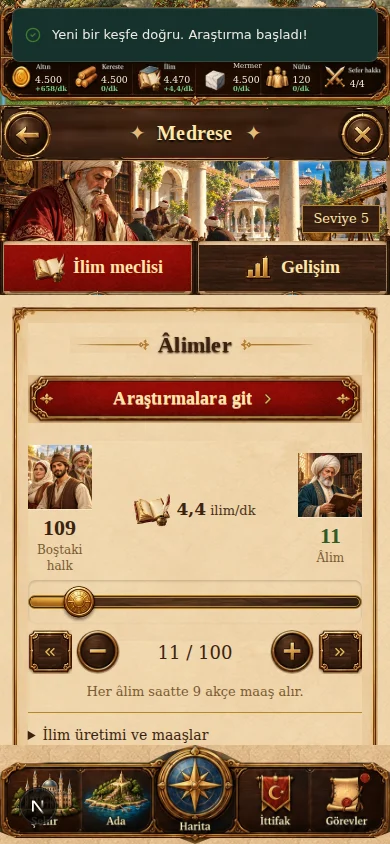
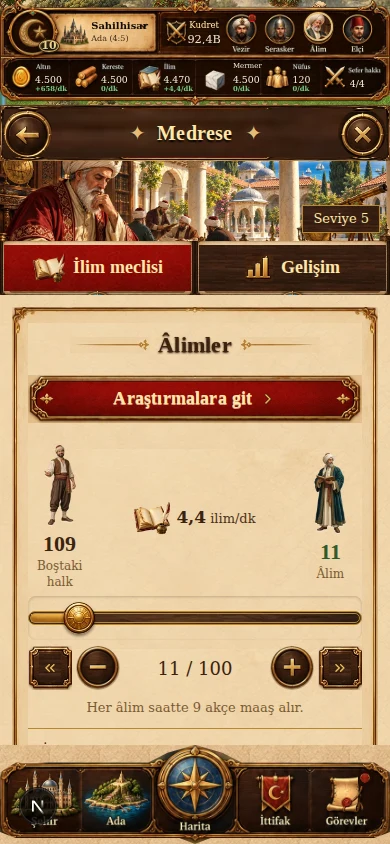
Use full-body painted citizen and scholar role figures

Changed region(s): [[0.0615, 0.5237, 0.9538, 0.8934], [0.0308, 0.0, 0.9846, 0.0924], [0.3385, 0.5853, 0.6462, 0.6469]]

diff --git a/payitaht/lib/game/changelog.ts b/payitaht/lib/game/changelog.ts
@@ -5,6 +5,7 @@
 export type Release = { version: string; date: string; title: string; notes: string[] }
 
 export const CHANGELOG: Release[] = [
+  { version: '0.71.1', date: '9 Ekim 2026', title: 'Tam boy halk ve âlim figürleri', notes: ['Boştaki halk ve âlim alanları ortak, tam boy boyalı insan figürlerine geçirildi. Portre çerçevesi kaldırıldı; bütün vücut ve ayaklar görünür.', 'İş gücü, araştırma ve öneri alanları aynı figürleri kullanır. Atama ve araştırma kuralları değişmedi.'] },
   { version: '0.71.0', date: '9 Ekim 2026', title: 'Ortak halk ve âlim, anlaşılır Medrese', notes: ['Halk ve âlim portreleri bütün ilgili ekranlarda ortaklaştırıldı; ilim ve süre simgeleri yenilendi.', 'Kristal deneyleri harcama ve gerçek kazanımı gösterir; âlim şehir durumuna göre araştırma önerir.', 'Yapı önizlemeleri ve üst bilgi düğmeleri kaldırıldı; yükseltme başlığı ortalandı, Medrese başlığı ve onay düğmeleri düzenlendi.'] },
   { version: '0.70.0', date: '8 Ekim 2026', title: 'Medrese ve ilim defteri', notes: ['Onaylı ortak Osmanlı arayüz standardı Medrese, beş araştırma dalı, deneyler ve gelecek araştırmalarına uygulandı.', 'Yeni boyalı kütüphane ve âlim portreleri; aynı işlemeli çerçeve, kırmızı eylem ve madalyonlu âlim atama barı.', 'Yükseltme Gelişim’de ilk sırada; üretim/maaş defteri ve yapı araçları normal akışta. Araştırma şartları, maliyetler ve süreler korunur.'] },
   { version: '0.69.0', date: '8 Ekim 2026', title: 'Kışla referansının son ayrıntıları', notes: ['16 birliğin tamamında aynı yakın plan resim ve altın köşeli çerçeve; bilgi ve kuyrukta eski figüre dönüş yok.', 'Referanstan boyalı +/−, Maks. çerçevesi, sürgü madalyonu, Gelişim simgesi ve süslü bölüm başlıkları.', 'Üretim kuyruğu portre, kalan süre ve ahşap/altın ilerleme çubuğuyla düzenlendi; yükseltme Gelişim başında kalır.'] },

diff --git a/payitaht/app/styles/50-academy-register.css b/payitaht/app/styles/50-academy-register.css
@@ -123,7 +123,7 @@
 .game-shell.has-page .bp:is(.bp-of-medrese,.bp-research) .gbtn { min-width: 120px; }
 
 /* 0.71: one citizen/scholar portrait, clear experimentation and aligned actions. */
-.game-shell img.person-portrait { object-fit: cover; border: 0 solid transparent; border-image: url('../../public/images/game/ui/barracks/unit-frame.webp') 40 / 5px / 0 stretch; border-radius: 0; flex-shrink: 0; }
+.game-shell img.person-figure { object-fit: contain; border: 0; flex-shrink: 0; }
 .game-shell .bp-dock-label { display: block; width: 100%; text-align: center; }
 .game-shell .building-description,
 .game-shell .building-operations { margin: 12px 0; border-block: 1px solid var(--c-gold-deep); }
@@ -135,7 +135,7 @@
 .game-shell.has-page .bp-of-medrese > .bp-bar h1::before,
 .game-shell.has-page .bp-of-medrese > .bp-bar h1::after { content: ''; width: 30px; height: 12px; background: var(--academy-ornament) center / 100% 100% no-repeat; }
 .game-shell.has-page .bp-of-medrese > .bp-bar h1::after { transform: scaleX(-1); }
-.game-shell.has-page .bp-of-medrese .workforce-side .person-portrait { width: 64px; height: 64px; margin-bottom: 4px; }
+.game-shell.has-page .bp-of-medrese .workforce-side .person-figure { width: 60px; height: 80px; margin-bottom: 4px; }
 .game-shell.has-page .bp-of-medrese .workforce-confirm { display: grid; grid-template-columns: repeat(2,minmax(0,1fr)); align-items: stretch; gap: 8px; }
 .game-shell.has-page .bp-of-medrese .workforce-confirm > .gbtn { min-width: 0; width: 100%; min-height: 52px; padding: 13px 30px; text-align: center; justify-content: center; }
 .game-shell.has-page .bp-of-medrese .workforce-confirm > .gbtn[data-variant='outline'] { filter: saturate(.4); }

diff --git a/payitaht/components/game/workforce.tsx b/payitaht/components/game/workforce.tsx
@@ -18,7 +18,7 @@ const INK = '#2e1c0e'
 const SKIN = '#e8b98a'
 /** Ayakta duran küçük figür: başlık, cübbe ve elindeki alet mesleği anlatır. */
 export function PersonArt({ kind, size = 64 }: { kind: Figure; size?: number }) {
-  if (kind === 'alim' || kind === 'halk') return <img className="person-art person-portrait" src={asset(`/images/game/ui/people/${kind === 'alim' ? 'scholar' : 'citizens'}.webp`)} alt="" width={size} height={size} />
+  if (kind === 'alim' || kind === 'halk') return <img className="person-art person-figure" src={asset(`/images/game/ui/people/${kind === 'alim' ? 'scholar-figure' : 'citizen-figure'}.webp`)} alt="" width={size} height={size * 80 / 60} />
   const look: Record<Figure, { robe: string; sash: string; hat: ReactNode; tool: ReactNode }> = {
     halk: { robe: '#4f7fa8', sash: '#e2bd78',
       hat: <path d="M23 13 l1.5 -8 h11 l1.5 8 Z" fill="#b3261e" stroke={INK} strokeWidth="1.2" />, tool: null },

diff --git a/payitaht/lib/pwa-cache.test.ts b/payitaht/lib/pwa-cache.test.ts
@@ -11,7 +11,7 @@ test('service worker Pages base path altında kaydolur', () => {
 
 test('service worker cache sürümü ve asset yenileme stratejisi güncel', () => {
   const sw = readFileSync('public/sw.js', 'utf8')
-  assert.match(sw, /payitaht-shell-v81/)
+  assert.match(sw, /payitaht-shell-v82/)
   assert.match(sw, /self\.registration\.scope/)
   assert.match(sw, /url\.pathname\.startsWith\(gameImages\)/)
   // Yalnızca JavaScript sözdizimini derle; self çağrıları çalıştırılmaz.

diff --git a/payitaht/public/sw.js b/payitaht/public/sw.js
@@ -1,7 +1,9 @@
-const CACHE = 'payitaht-shell-v81'
+const CACHE = 'payitaht-shell-v82'
 const BASE = new URL(self.registration.scope).pathname.replace(/\/$/, '')
 const p = path => `${BASE}${path.startsWith('/') ? path : `/${path}`}`
 const ASSETS = [
+  p('/images/game/ui/people/citizen-figure.webp'),
+  p('/images/game/ui/people/scholar-figure.webp'),
   p('/images/game/ui/people/citizens.webp'),
   p('/images/game/ui/people/scholar.webp'),
   p('/images/game/icons/res-ilim-v2.webp'),

diff --git a/payitaht/docs/MASTER-UI-STANDARD.md b/payitaht/docs/MASTER-UI-STANDARD.md
@@ -11,7 +11,7 @@ Adem, 8 Ekim 2026: “bu tasarımı beynine işle tasarım standardımız oturdu
 - Bölüm başlıkları iki yanda simetrik altın süs. Sekmelerde konuya uygun Osmanlı/boyalı simge; Gelişim'de referansın pirinç sütun ikonu.
 - Önce oyun eylemi, sonra destek bilgisi. Yükseltme Gelişim'in ilk bloğudur. Ana eylemi sabit büyük dekorasyonla sıkıştırma. Uzun içerik dikey akar; yatay hareket sadece açıkça belirtilen adet barı veya dal sekmesidir.
 - Sahne aynı Osmanlı–Ege ressamının ışık/malzeme dilinde; yeni bina için aynı sahneyi kopyalamak yerine yeni yazısız resim üret. 9 Ekim düzeltmesi: bina sayfalarındaki yapı görünümü ve seviye önizleme galerileri kaldırılır. Yön/taşıma/yıkım eylemleri Gelişim’de ayrı açılır alanda erişilebilir kalır.
-- Halk/âlim için her yerde ortak `ui/people/citizens.webp` ve `scholar.webp`; sayfaya özel farklı halk veya âlim kullanma. Üst bina bilgi düğmesi kaldırılır, açıklama Gelişim’de okunur. Yükseltme başlığı ortalı; Onayla/Geri al eşit genişlik ve yükseklikte, çerçeve işaretleri metne değmez.
+- Halk/âlim rol alanlarında ortak `ui/people/citizen-figure.webp` ve `scholar-figure.webp`: şeffaf tam boy insan figürü, baş ve ayaklar görünür; portre veya portre çerçevesi kullanma. HUD danışman rozetleri ayrı navigasyon simgeleridir; asker portreleri bu kuralın dışındadır. Üst bina bilgi düğmesi kaldırılır, açıklama Gelişim’de okunur. Yükseltme başlığı ortalı; Onayla/Geri al eşit genişlik ve yükseklikte, çerçeve işaretleri metne değmez.
 - İlim ve süre simgeleri ortak `icons/res-ilim-v2.webp` ve `res-sure.webp`; bağlama göre okunur boyut.
 - Kabul edilmiş üst/alt HUD yerleşimi değişmez. Ekonomi, kaydetme, maliyetler, süreler, ön koşullar ve komutlar değiştirilmez.
 

diff --git a/payitaht/AGENTS.md b/payitaht/AGENTS.md
@@ -10,6 +10,8 @@ This block is written and re-added by `next dev` — verify at `node_modules/nex
 
 # Payitaht Adaları — ajanlar için
 
+**Son kullanıcı düzeltmesi — 0.71.1 / SW82:** Halk ve âlim rol alanlarında portre kullanılmaz. Ortak `citizen-figure.webp` ve `scholar-figure.webp` şeffaf, tam boy insan figürleridir; baştan ayağa görünür, portre çerçevesi yoktur. HUD danışman rozetleri ayrı navigasyon görselleridir, asker portre standardı korunur.
+
 **9 Ekim 0.71.0 / SW81 düzeltmesi:** Halk ve âlim ortak `ui/people/` portreleri; ilim/süre ortak yeni WebP. Bina detaylarında yapı/seviye önizlemeleri ve üst bilgi düğmeleri kaldırıldı; yön/taşı/yık Gelişim'de. Yükseltme başlığı ortalı, Onayla/Geri al eşit. Kristal deneyleri gerçek harcama/kazanımı, Âlimin önerisi güncel duruma göre uygun araştırmayı anlatır. `docs/MEDRESE-DESIGN-MEMORY.md` başındaki son kurallar eski avlu tariflerini değiştirir.
 
 **8 Ekim son genel onay:** Kullanıcı kışlanın 0.69.0 son halini oyunun tasarım standardı kabul etti. Yeni sayfalarda önce `docs/MASTER-UI-STANDARD.md`; Medrese/araştırma için `docs/MEDRESE-DESIGN-MEMORY.md` okunur. Mekanik/HUD korunur, Gelişim’de eylem önce gelir.

diff --git a/payitaht/docs/MEDRESE-VALIDATION.md b/payitaht/docs/MEDRESE-VALIDATION.md
@@ -1,3 +1,10 @@
+# Tam boy figür doğrulaması — 0.71.1 / SW82
+
+- Halk ve âlim: ayrı üretilmiş şeffaf PNG, alpha korunarak 192×256 WebP; ortak PersonArt, object-fit contain; portre çerçevesi yok.
+- 360, 390 ve 430×844: Medrese figürleri tam boy, kesilme/taşma/çakışma yok. Onayla ile âlim 10→11; ormanda aynı citizen-figure kullanılır. Öneri ve beş araştırma dalı temiz. Aktif ilerleme taramasındaki tek kesik kayıt Base UI erişilebilirlik için gizlenmiş 1px presentation span, görünür içerik değil.
+- 335 test, TypeScript, ESLint, strict CSS ve V2 ölçütleri geçti. Tam genel layout-qa 360×740 ve %130: exit 1; önceki HUD küçük/minik ve gizli Gelişim dock beklentisi kayıtları sürüyor. Değişen figürlerin odaklı taraması temiz.
+- Kanıtlar: medrese-live-{360,390,430}.webp, medrese-confirmation.webp, medrese-active.webp, research-advice.webp.
+
 # Medrese — 0.70.0 / SW80
 
 8 Ekim 2026. Kullanıcı kışla 0.69.0 dilini genel standart kabul etti; `MASTER-UI-STANDARD.md` ve `MEDRESE-DESIGN-MEMORY.md` kalıcı kaynaklar. Üst/alt HUD, kayıt şeması, ekonomi, maliyet, süre, ön koşul ve komut hesapları değişmedi.

diff --git a/payitaht/docs/MEDRESE-DESIGN-MEMORY.md b/payitaht/docs/MEDRESE-DESIGN-MEMORY.md
@@ -1,3 +1,7 @@
+# Son düzeltme — 0.71.1 / SW82
+
+Kullanıcı: «halk ve alim gibi durumlarda insan gibi çiz kanka portre olmasın». Önceki halk/âlim portre tarifini değiştirir. Boştaki halk sade sivil kıyafetli tam boy insan; âlim sarıklı, kitap tutan tam boy insan. Şeffaf boyalı WebP, çerçevesiz, object-fit contain. Ortak PersonArt ile iş gücü/araştırma/öneri alanlarına yayılır; Medrese 60×80, diğer alanlar mevcut 3:4 figür oranını korur. HUD danışman simgeleri ve asker portreleri ayrı kullanım olarak korunur.
+
 # Son düzeltme — 0.71.0 / SW81 (9 Ekim)
 
 Kullanıcı halk ve âlimin her yerde aynı olmasını istedi: `PersonArt` halk için `public/images/game/ui/people/citizens.webp`, âlim için `scholar.webp` döndürür. Halk sıradan Osmanlı şehir sakinleri, âlim beyaz sarık/mavi cübbe/elyazmasıdır. Medreseye özel öğrenci veya eski portre kullanılmaz; öneri kutusu da aynı âlimi kullanır. Medrese portreleri 64×64, diğer kullanımlar kendi bağlam boyutuyla aynı resim/çerçeve.
